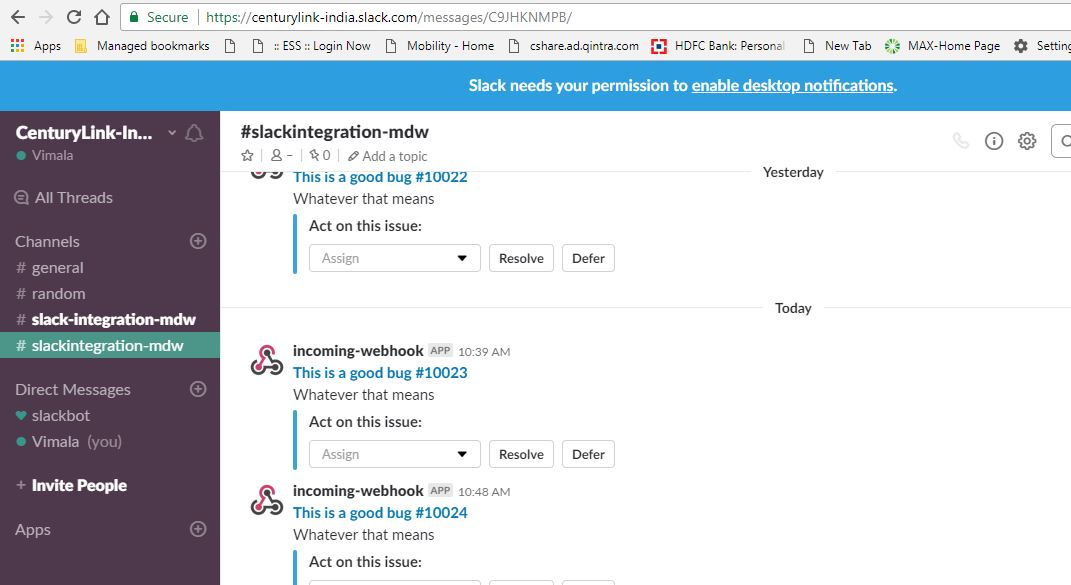
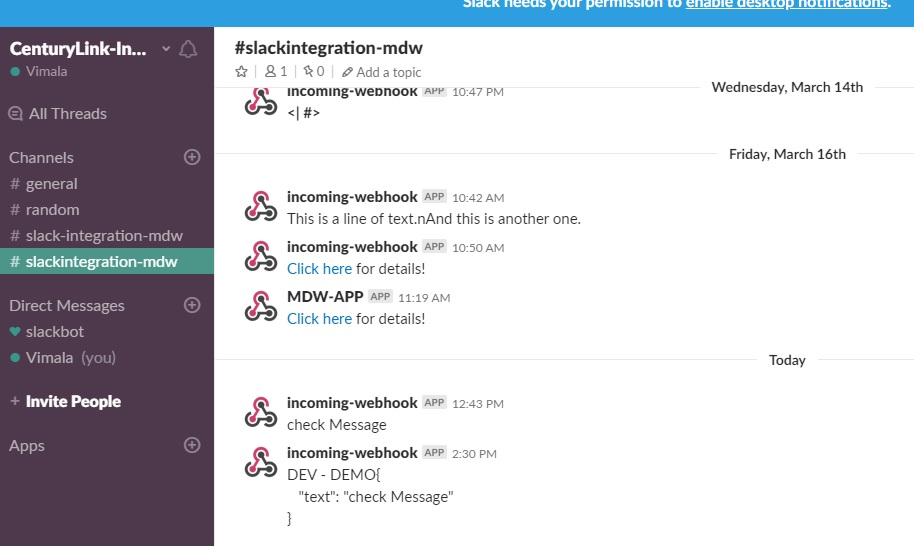
SlackActivity Review comments

diff --git a/docs/_docs/help/SlackActivity.html b/docs/_docs/help/SlackActivity.html
@@ -7,7 +7,7 @@
 <h1>Slack Activity</h1>
 This activity helps to integrate <a href="https://slack.com/">Slack</a> into an MDW workflow.This is a simple activity which enables user to post messages into Slack using <a href="https://api.slack.com/incoming-webhooks">Incoming Webhooks</a>.
 They make use of normal HTTP requests with a JSON payload, which includes the message. It allows simple one-way interaction with friendly Slack messages.This activity does not require MDW Slack app. Instead, User creates their own Incoming Slack WebHook and provides the URL in the SLACK_WEBHOOK_URL environment variable.
-In this section we'll explore the steps to integrate Slack into an MDW workflow.<br/>
+In this section we'll explore the steps to integrate Slack into MDW workflow.<br/>
 <h3>Slack Channel creation and Integration with incoming-webhook</h3>
 Go to https://slack.com/get-started  to either find your existing workspace or create a new workspace. 
 Click on Launch button which opens your current workspace where you can invite people and/or add one or more channels.
@@ -41,6 +41,7 @@ For Ex: com.centurylink.mdw.slack/slackNotice.json</br>
 Refer to Json Asset SlackNotice.json located in com.centurylink.mdw.slack package.</br></br>  
 Refer to <a href="https://api.slack.com/incoming-webhooks">Json Payload</a>  for advanced message formatting using incoming webhook. The api getMessage() can be overriden to enhance message
 by adding username, application prefix,links, attachments etc </br>
+Slack Message Prefix can be given which is appended to the message sent along with environment information.</br>
 Below Screen shot illustrates how a sample message received from MDW workflow into Slack channel looks like using Slack Activity.</br>
 <br/><br/>
 <img src="images/SlackIncomingMessage.jpg" />

diff --git a/mdw-workflow/assets/com/centurylink/mdw/slack/SlackActivity.java b/mdw-workflow/assets/com/centurylink/mdw/slack/SlackActivity.java
@@ -20,16 +20,12 @@ import java.util.HashMap;
 import java.util.Map;
 
 import org.json.JSONObject;
-
 import com.centurylink.mdw.activity.ActivityException;
 import com.centurylink.mdw.app.ApplicationContext;
 import com.centurylink.mdw.cache.impl.AssetCache;
 import com.centurylink.mdw.common.service.ServiceException;
-import com.centurylink.mdw.config.PropertyException;
-import com.centurylink.mdw.config.PropertyManager;
 import com.centurylink.mdw.constant.WorkAttributeConstant;
 import com.centurylink.mdw.model.asset.Asset;
-import com.centurylink.mdw.model.listener.Listener;
 import com.centurylink.mdw.model.workflow.ActivityRuntimeContext;
 import com.centurylink.mdw.util.HttpHelper;
 import com.centurylink.mdw.workflow.activity.DefaultActivityImpl;
@@ -42,25 +38,10 @@ import com.centurylink.mdw.workflow.activity.DefaultActivityImpl;
  */
 public class SlackActivity extends DefaultActivityImpl {
 
-    public static String SLACK_WEBHOOK_URL = "mdw.slack.webhook.url";
+    public static String END_POINT_URI = "endpointUri";
     public static final String SLACK_MESSAGE = "slackMessage";
     // Prefix that identifies where the Slack message came from
-    private String slackPrefix = "MDW-APP: ";
-
-    /**
-     * @return the slackPrefix
-     */
-    public String getSlackPrefix() {
-        return slackPrefix;
-    }
-
-    /**
-     * @param slackPrefix the slackPrefix to set
-     */
-    public void setSlackPrefix(String slackPrefix) {
-        this.slackPrefix = slackPrefix;
-    }
-
+    private static String SLACK_PREFIX = "slackPrefix";
     private ActivityRuntimeContext context;
 
     /*
@@ -72,6 +53,15 @@ public class SlackActivity extends DefaultActivityImpl {
         hdrs.put("environment", getSlackPrefix());
         return hdrs;
     }
+    /*
+     * if slackPrefix attribute is not set, it uses default "MDW-APP"
+     */
+    public String getSlackPrefix(){
+        String slackPrefix=getAttributeValueSmart(SLACK_PREFIX);
+        if(slackPrefix==null)
+            slackPrefix="MDW-APP";
+        return slackPrefix;
+    }
 
     public JSONObject getMessage()throws ActivityException {
         String slackmessageAsset = getAttributeValueSmart(SLACK_MESSAGE);
@@ -82,13 +72,15 @@ public class SlackActivity extends DefaultActivityImpl {
             throw new ActivityException("Slack Message JSON asset could not be found "+slackmessageAsset);
 
         String message = context.evaluateToString(template.getStringContent());
-        JSONObject json;
+        JSONObject json=new JSONObject();
+        String env = ApplicationContext.getRuntimeEnvironment().toUpperCase();
         if (template.getLanguage().equals(Asset.JSON)) {
-            json = new JSONObject(message);
+            json.put("text", env + " - " + getSlackPrefix() + message);
+
         }
         else {
             json = new JSONObject();
-            json.put("text", message);
+            json.put("text", env + " - " + getSlackPrefix() + message);
         }
         String altText = null;
         if (json.has("text")) {
@@ -101,10 +93,10 @@ public class SlackActivity extends DefaultActivityImpl {
         return json;
     }
 
-    public String getWebhookUrl() throws PropertyException {
-        String url = PropertyManager.getProperty(SLACK_WEBHOOK_URL);
+    public String getWebhookUrl() throws ActivityException {
+        String url = getAttributeValueSmart(END_POINT_URI);
         if (url == null)
-            throw new PropertyException("Missing configuration: mdw.slack.webhook.url");
+            throw new ActivityException("Missing configuration: Slack End Point uri");
         return url;
     }
 
